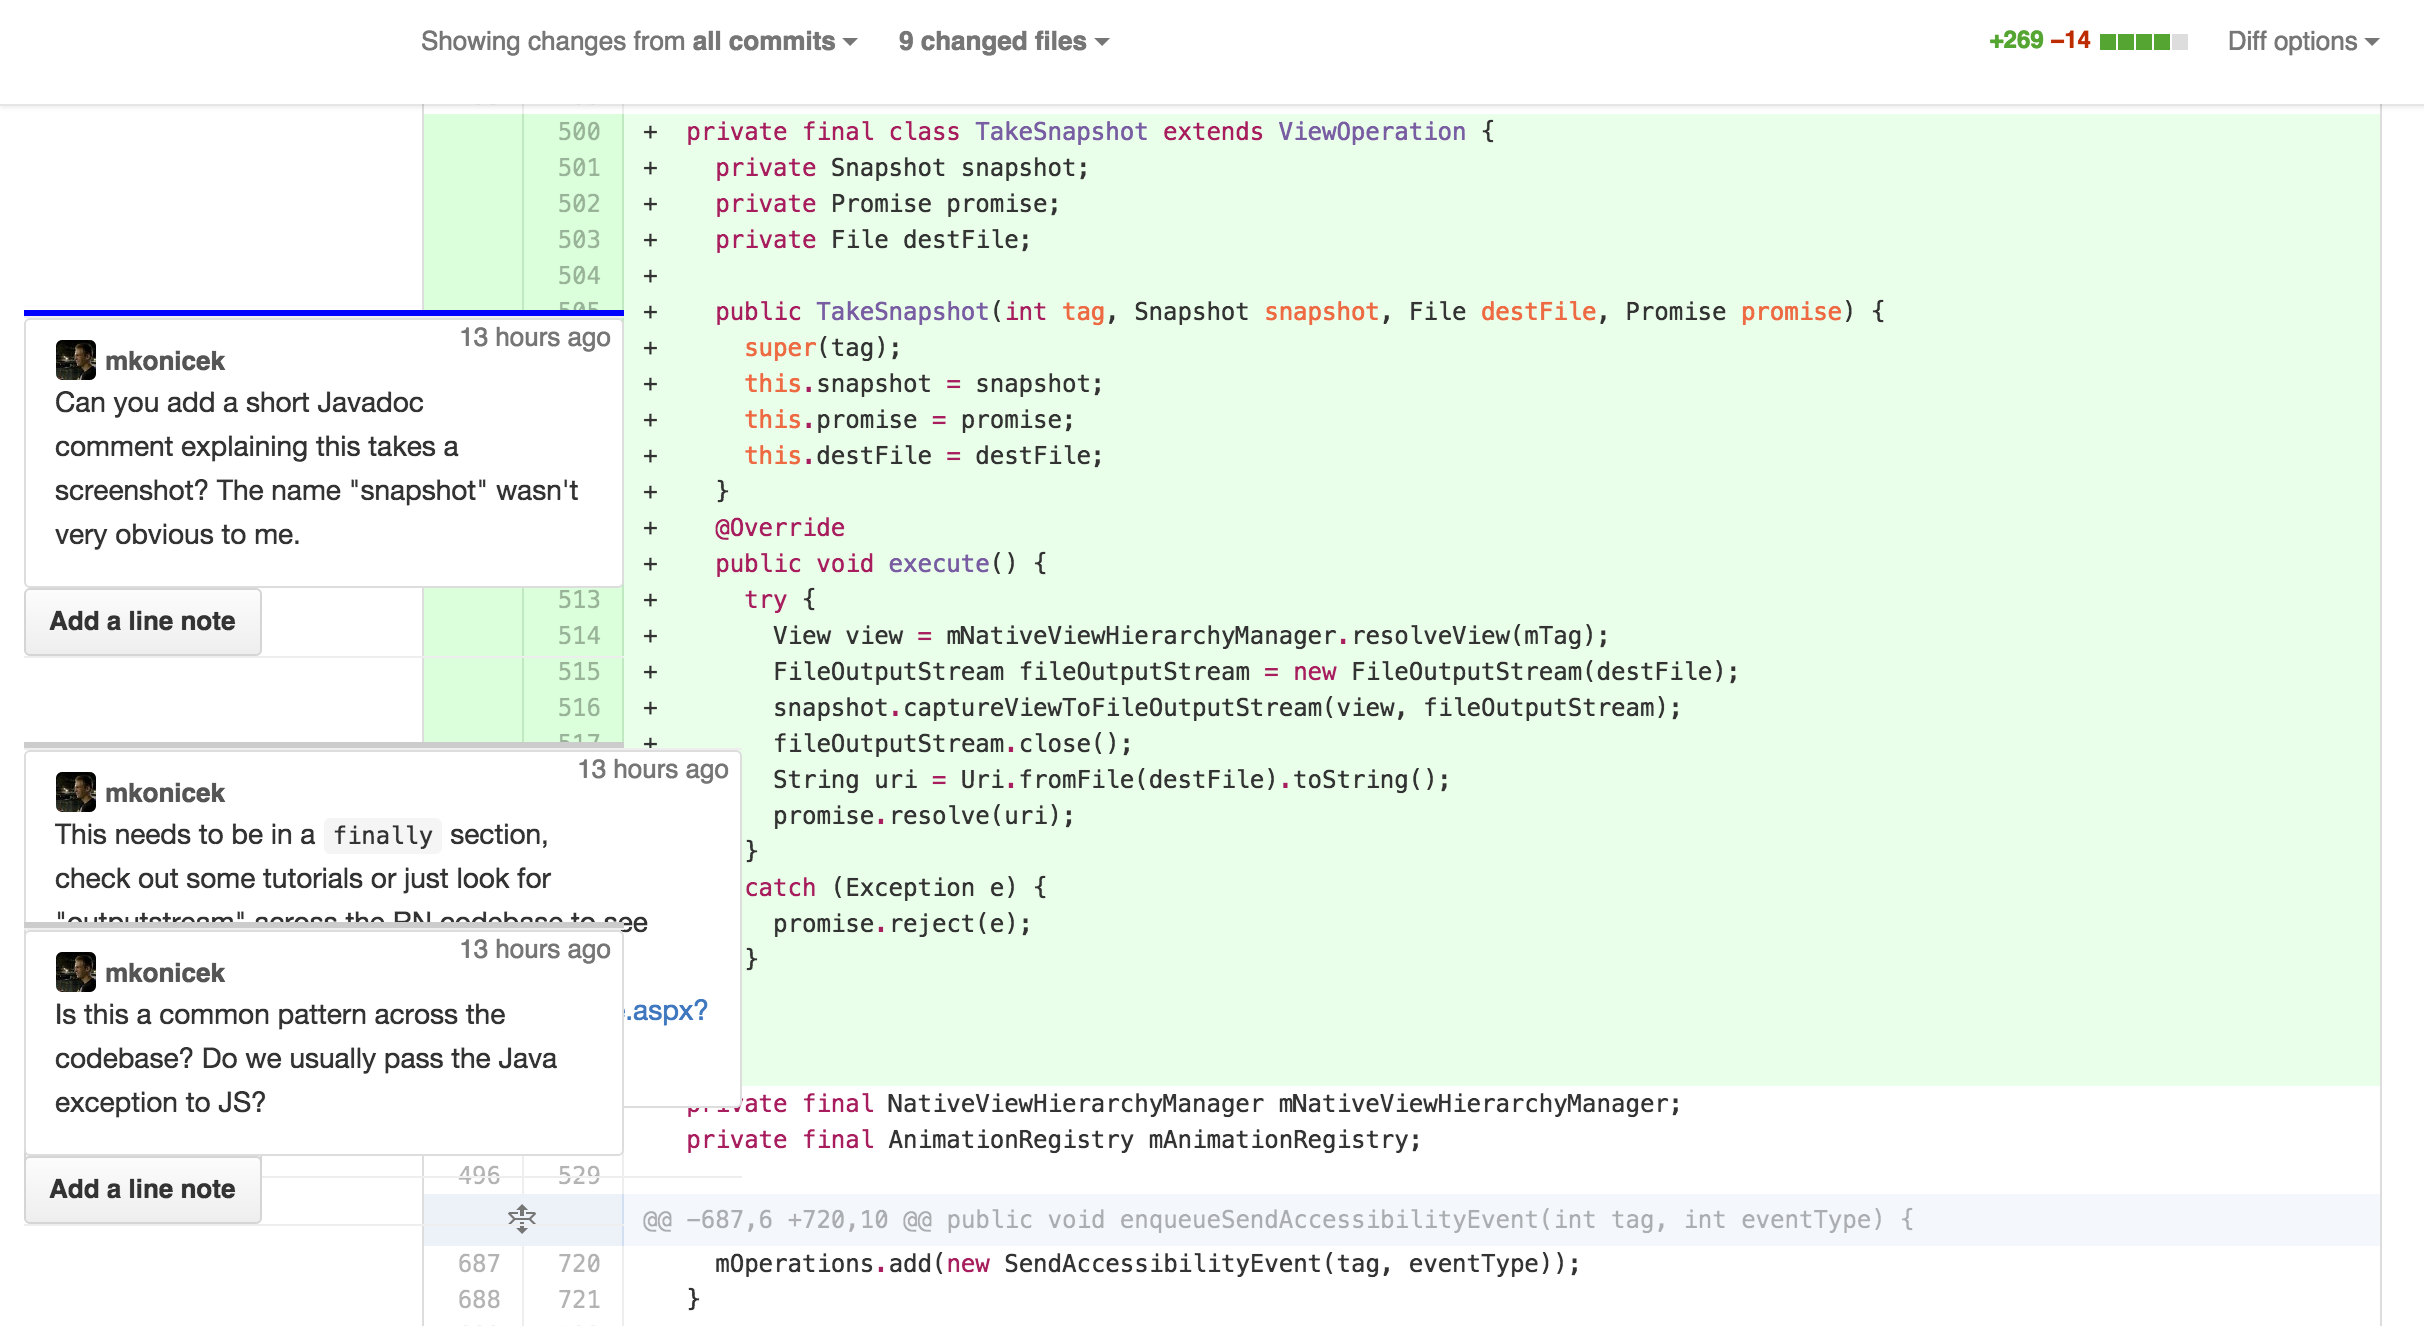
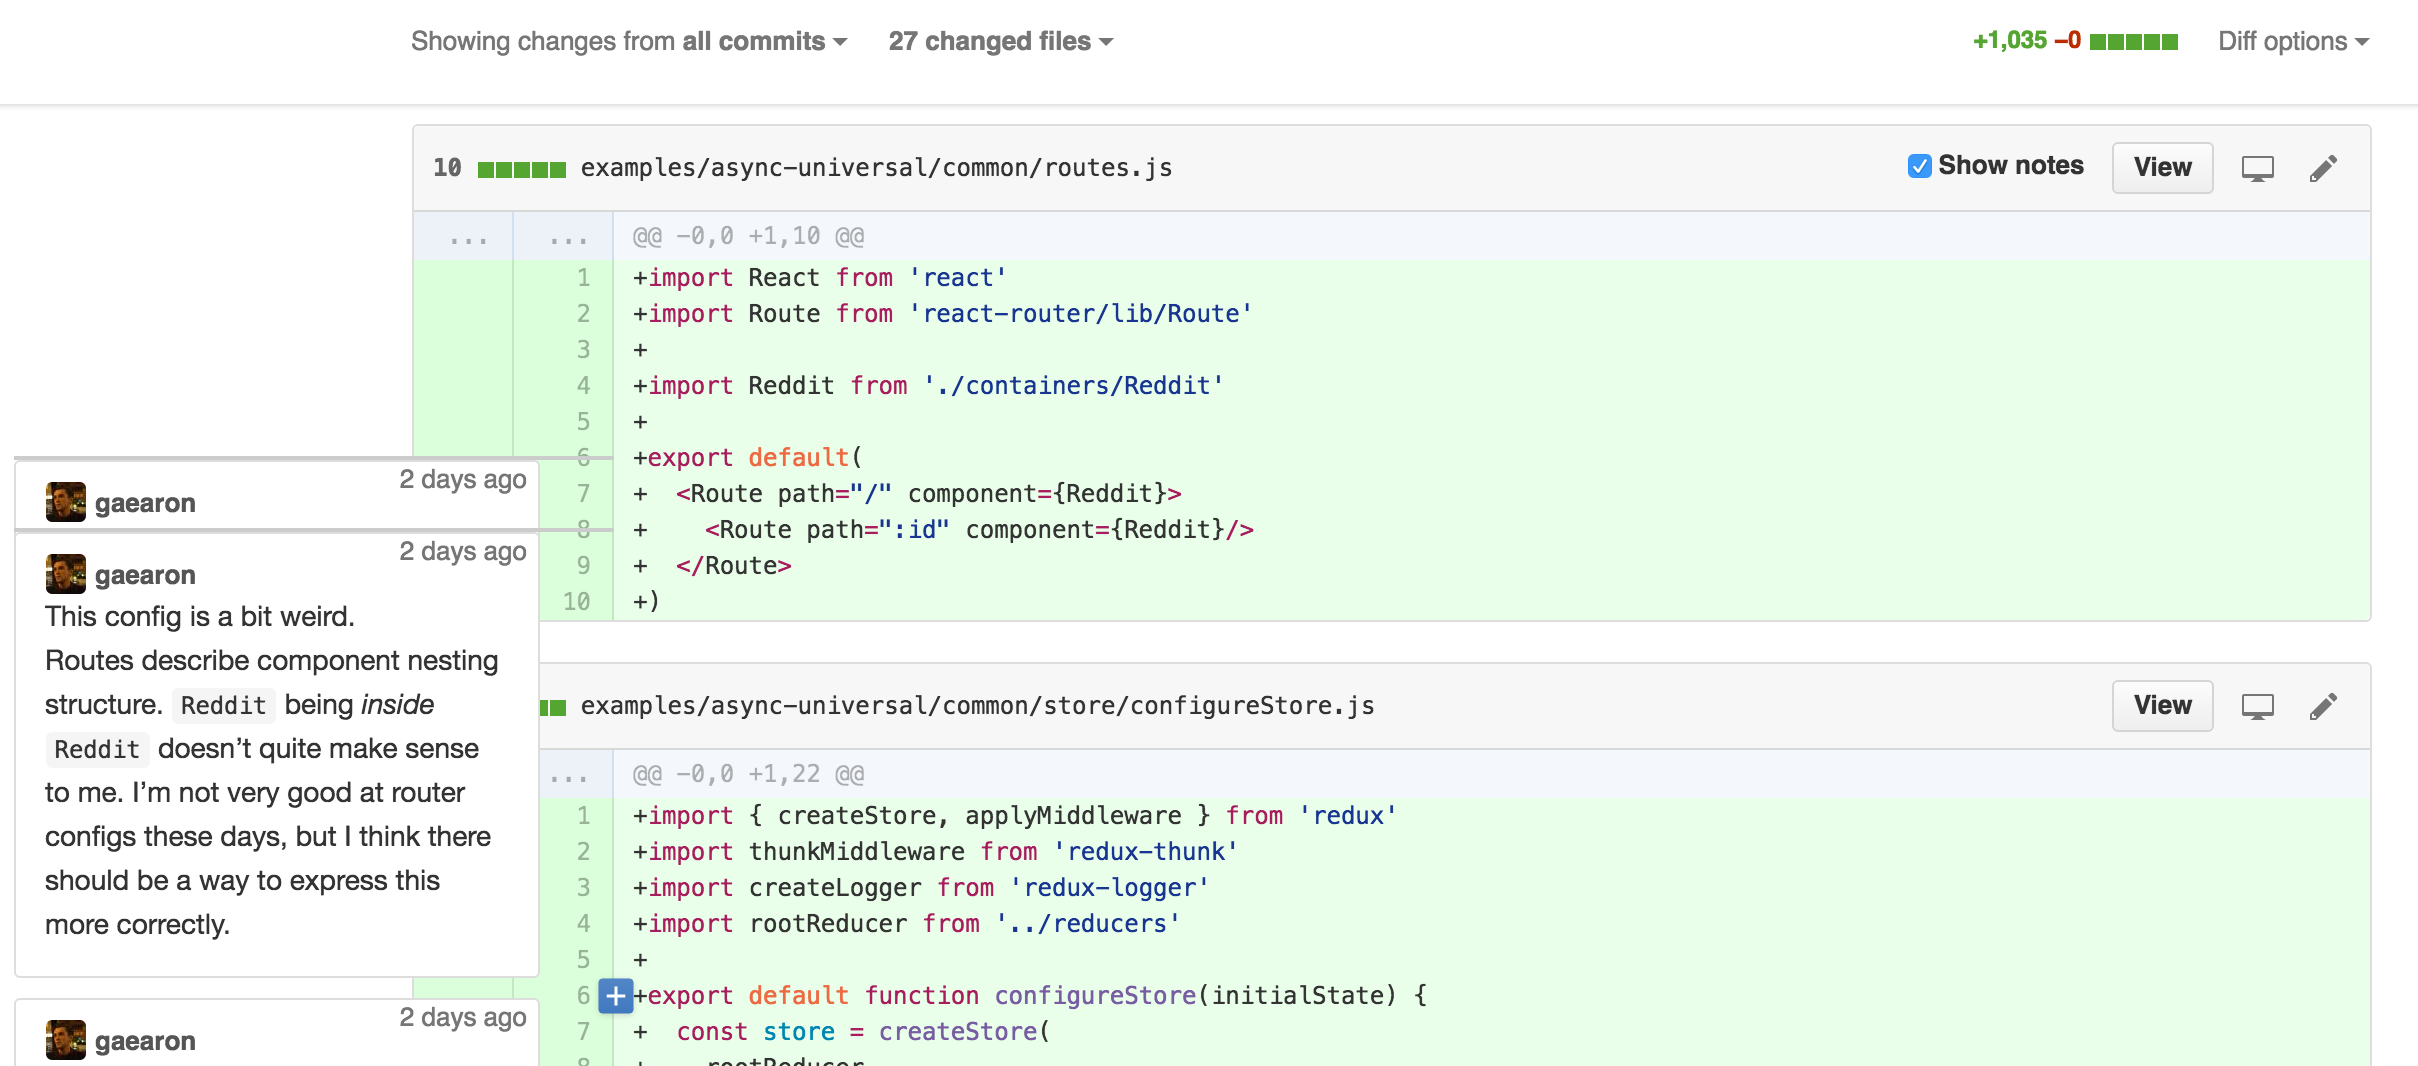
docs: updated demo-after.png & README

diff --git a/README.md b/README.md
@@ -14,6 +14,12 @@ To this:
 
 <img src="https://github.com/ngduc/better-pull-request/blob/master/docs/assets/demo-after.png" border="1">
 
+## Features
+
+* Side comments so you can read the code without distractions
+* Cleaner comment style
+* Mouse over a comment to expand it 
+
 # How ?
 
 For now, [Stylish](https://chrome.google.com/webstore/detail/stylish/fjnbnpbmkenffdnngjfgmeleoegfcffe?hl=en) is used to modify CSS of the Pull Request Diff Page
